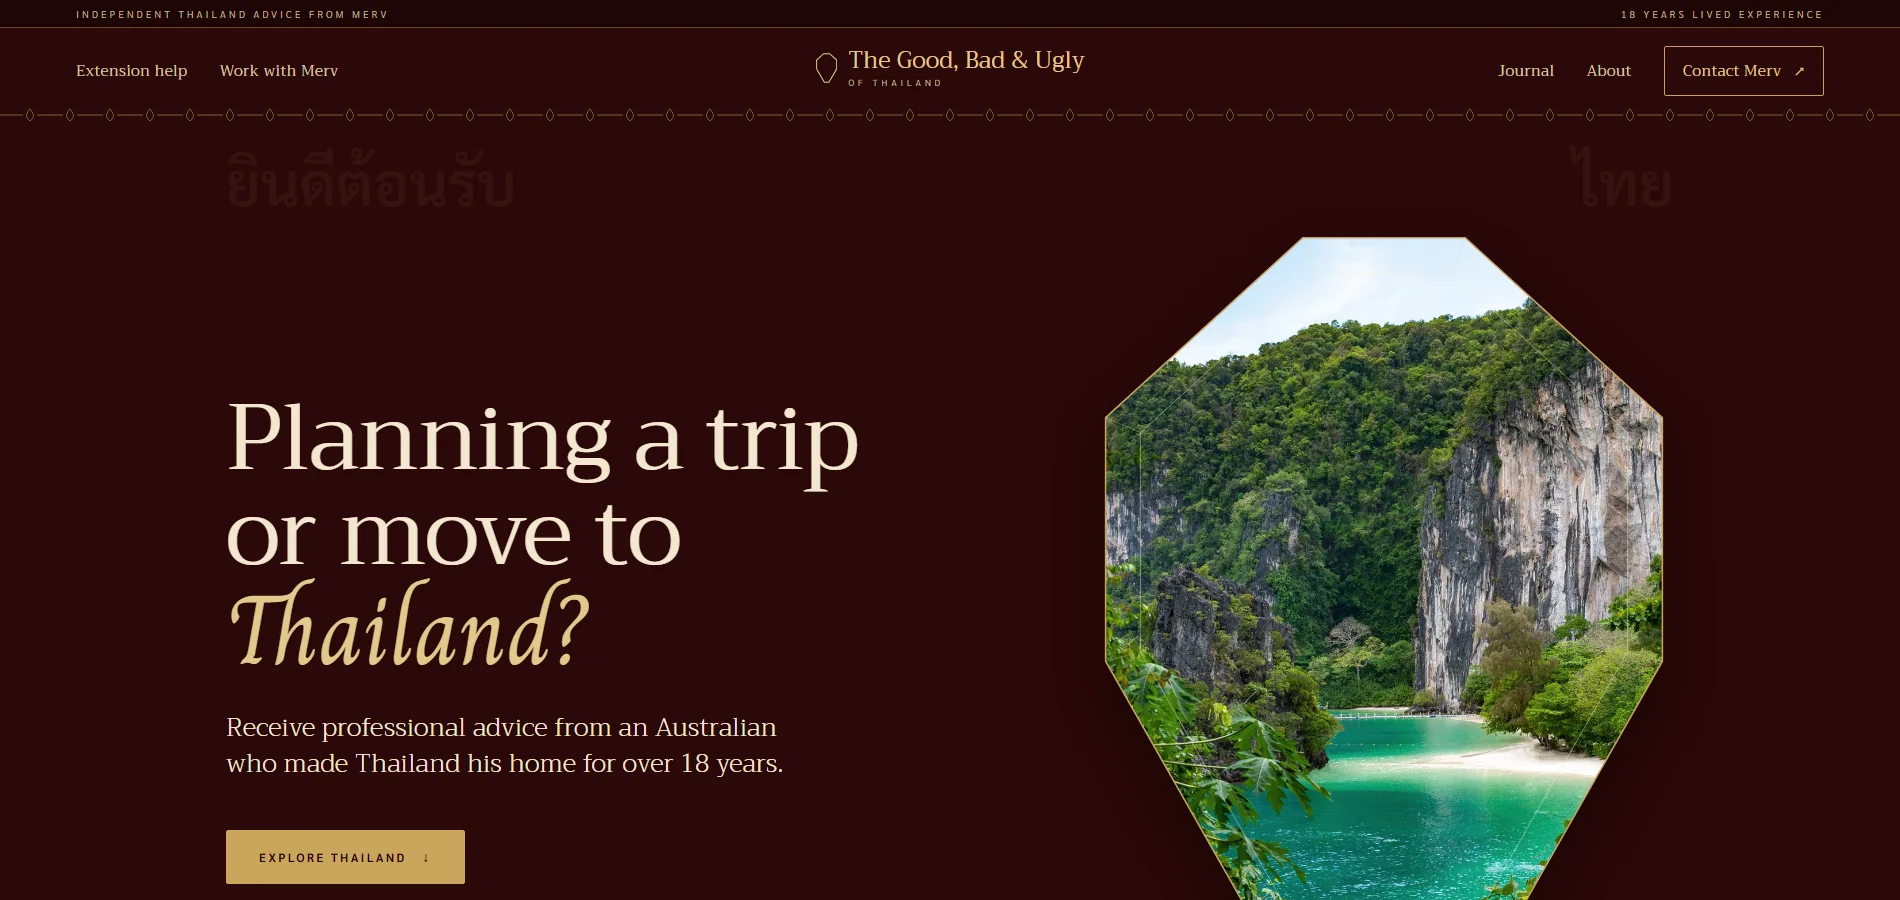
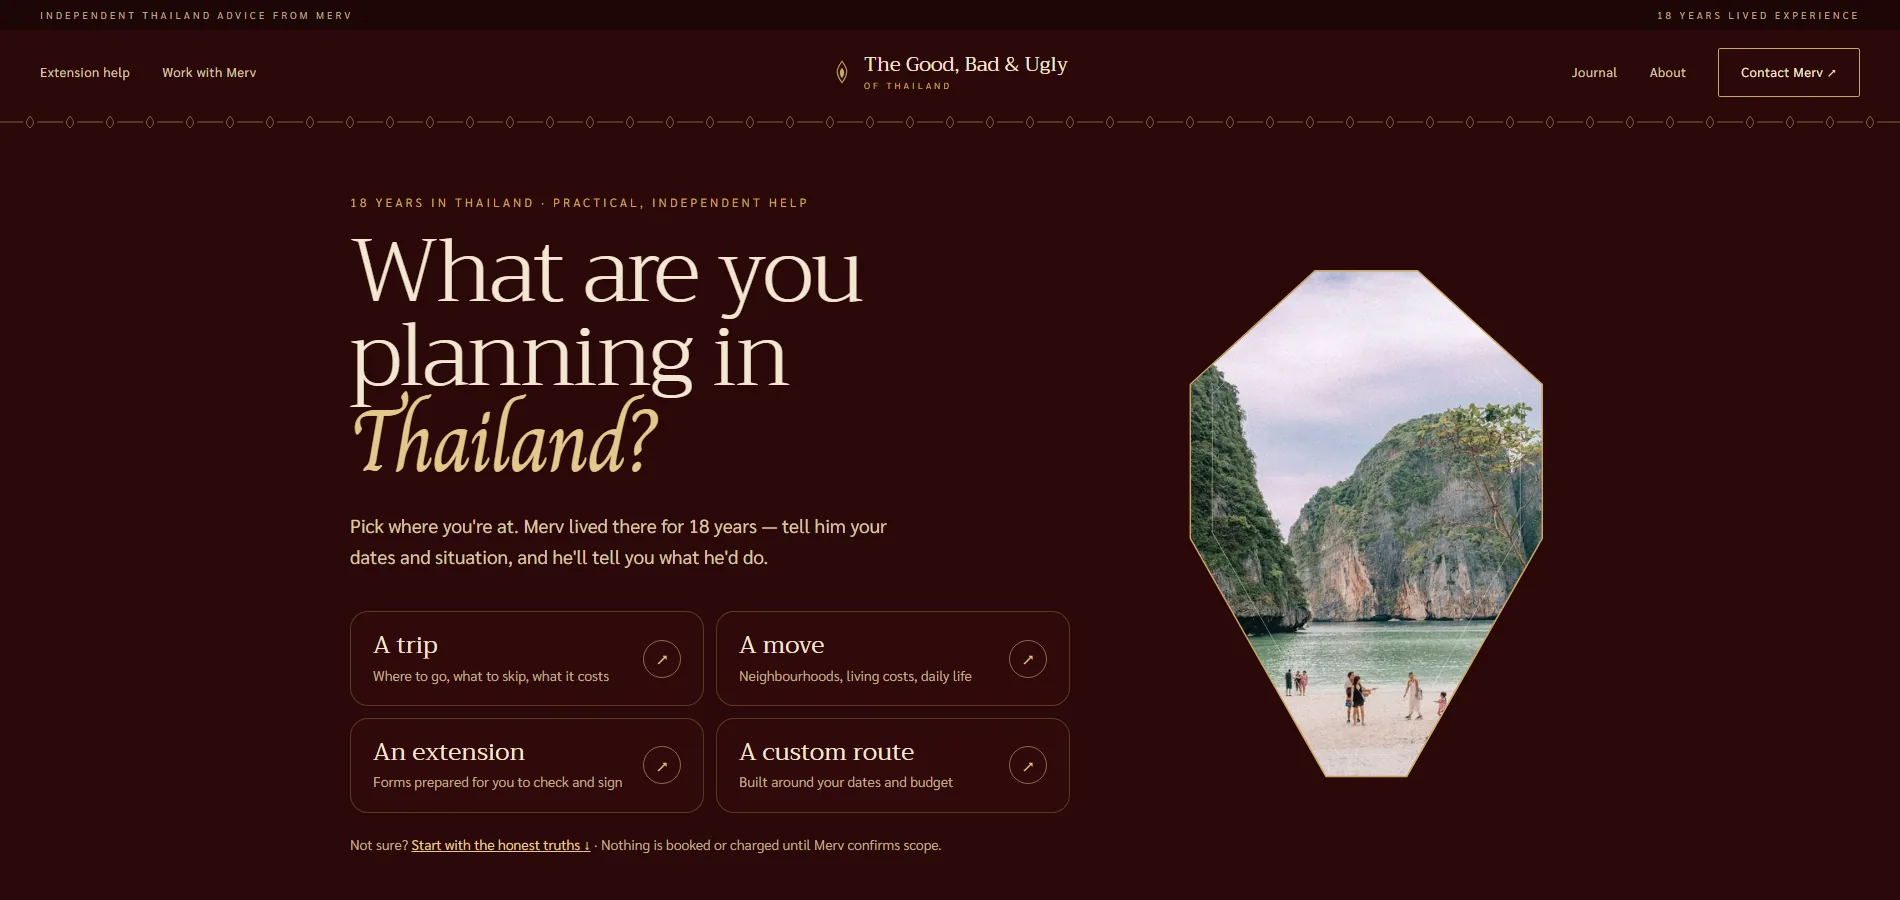
Refresh Thailand site work thumbnail

diff --git a/index.html b/index.html
@@ -170,7 +170,7 @@
     </article>
     <article class="work-card" data-tile="1">
       <a class="site-card-link" href="https://goodbaduglythailand.com/" target="_blank" rel="noopener noreferrer" aria-label="Open The Good, Bad and Ugly of Thailand in a new tab"></a>
-      <div class="work-card__image"><img src="assets/previews/goodbaduglythailand-wide.webp" alt="The Good, Bad and Ugly of Thailand website screenshot" loading="eager" decoding="async"></div>
+      <div class="work-card__image"><img src="assets/previews/goodbaduglythailand-wide.webp?v=20261026" alt="The Good, Bad and Ugly of Thailand website screenshot" loading="eager" decoding="async"></div>
       <div class="work-card__copy"><p class="work-card__type">Advice website</p><h3>The Good, Bad &amp; Ugly of Thailand</h3><p class="work-card__description">A Thailand advice website with a clear path to extension paperwork help and Merv's other services.</p></div>
     </article>
   </div>
